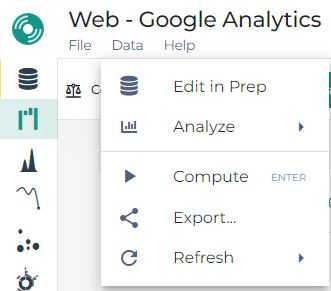
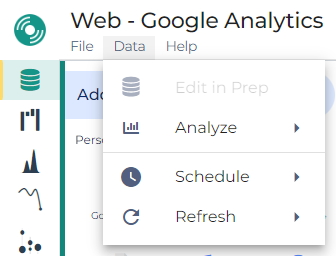
DOCS - Fix : Interface part of the doc revision

diff --git a/core_app/new/interface/header/data.md b/core_app/new/interface/header/data.md
@@ -4,23 +4,19 @@ description: Find here how you can use the "Data" menu of the header of the Data
 layout: page
 ---
 
-> Find here how you can use **the Data** menu of the header of the Solution**
+> Find here how you can use **the Data** menu of the header of the Solution
 
 <center><img src="{{site.url}}/{{site.baseurl}}/core_app/new/interface/header/images/data_menu.jpg"/></center>
 
 **In Prep :** 
 
-- **Schedule** : program in advance the execution of a flow in Prep 
-- **Run and cache** : cache the data and run the flow
-- **Analyze** : choose a tool in which to run a computation of the data flow.
+- **Analyze** : Choose a tool in which to run a computation of the data flow.
+- **Schedule** : Program in advance the execution of a flow in Prep.
+- **Refresh** : Refresh data or refresh everything.
 
 **In solutions :** 
 
-- **Compute** : launch a computation for the current tool.
-- **Clean Cache** : clear the cache in memory.
-- **Edit in Prep** : open Prep to modify the data flow.
-- **Analyze** : choose a tool in which to run a computation.
-
-
-Don't hesitate to contact us if you need any other connexion with your data.
-
+- **Edit in Prep** : Open Prep to modify the data flow.
+- **Analyze** : Choose a tool in which to run a computation.
+- **Compute** : Launch a computation for the current tool.
+- **Refresh** : Refresh computation or refresh data refresh everything

diff --git a/core_app/new/interface/header/file.md b/core_app/new/interface/header/file.md
@@ -4,19 +4,17 @@ description: Find here how you can use the "File" menu of the header of the Data
 layout: page
 ---
 
-> Find here how you can use **the File** menu of the header of the Solution**
+> Find here how you can use **the File** menu of the header of the Solution
 
 <center><img src="{{site.url}}/{{site.baseurl}}/core_app/new/interface/header/images/file_menu.jpg"/></center>
 
 Here is the options available in the "File" header menu:
 
-- **Open** : choose flow to work with. This flow can be one of those you created or a Get Inspired flow.
-- **New workbook** : create an empty workbook.
-- **Save** : update changes of your current workbook.
-- **Save as** : save changes and determine new workbook's properties.
-- **Delete** : delete the workbook. This action is irreversible. 
-- **Refresh page** : reload the website page.
-- **About this workbook** : get the workbook's properties.
+- **Save** : Update changes of your current workbook.
+- **Save as** : Save changes and determine new workbook's properties.
+- **Delete** : Delete the workbook. This action is irreversible. 
+- **Open** : Choose flow to work with. This flow can be one of those you created or a Get Inspired flow.
+- **New workbook** : Create an empty workbook.
 
 
 Don't hesitate to contact us if you need any other connexion with your data.

diff --git a/core_app/new/interface/homepage/get_inspired/get_inspired.md b/core_app/new/interface/homepage/get_inspired/get_inspired.md
@@ -31,7 +31,7 @@ Here are the available examples :
 * [Marketing campaign]({{site.url}}/{{site.baseurl}}/core_app/new/interface/homepage/get_inspired/marketing_campaign.html)
 * [Marketing continuous]({{site.url}}/{{site.baseurl}}/core_app/new/interface/homepage/get_inspired/marketing_continuous.html)
 * [Marketing scope]({{site.url}}/{{site.baseurl}}/core_app/new/interface/homepage/get_inspired/marketing_scope.html)
-* [Acquisition display with budget]({{site.url}}/{{site.baseurl}}/core_app/new/interface/homepage/get_inspired/acquisition_display.html)
+<!-- * [Acquisition display with budget]({{site.url}}/{{site.baseurl}}/core_app/new/interface/homepage/get_inspired/acquisition_display.html) -->
 * [Content Square]({{site.url}}/{{site.baseurl}}/core_app/new/interface/homepage/get_inspired/Content_CS.html)
 * [Retail Performance]({{site.url}}/{{site.baseurl}}/core_app/new/interface/homepage/get_inspired/retail_performance.html)
 * [Finance Control]({{site.url}}/{{site.baseurl}}/core_app/new/interface/homepage/get_inspired/finance_controlling.html)

diff --git a/core_app/new/interface/header/help.md b/core_app/new/interface/header/help.md
@@ -4,16 +4,12 @@ description: Find here how you can use the "Help" menu of the header of the Data
 layout: page
 ---
 
-> Find here how you can use **the Help** menu of the header of the Solution**
+> Find here how you can use **the Help** menu of the header of the Solution
 
 <center><img src="{{site.url}}/{{site.baseurl}}/core_app/new/interface/header/images/help_menu.jpg"/></center>
 
-- **Search** : open a search bar to find keywords in Workbooks, Get Inspired and Documentation.
+- **Search** : Open a search bar to find keywords in Workbooks, Get Inspired and Documentation.
 <center><img src="{{site.url}}/{{site.baseurl}}/core_app/new/interface/header/images/search_bar.png"/></center>
 
-- **Tutorials** : launch the dynamic tutorials to help you use the solutions
-- **Documentation** : access the DataMa documentation
-
-
-Don't hesitate to contact us if you need any other connexion with your data.
-
+- **Tutorials** : Launch the dynamic tutorials to help you use the solutions
+- **Documentation** : Access the DataMa documentation

diff --git a/core_app/new/interface/homepage/homepage_header.md b/core_app/new/interface/homepage/homepage_header.md
@@ -10,25 +10,3 @@ layout: page
 
 
 The header will follow you all along your experience in the platform letting you coming back to the homepage and access your profile account.
-
-<br>
-
-> Discore as well the Header of the solutions
-
-
-<center><img src="{{site.url}}/{{site.baseurl}}/core_app/new/interface/header/images/header.jpg"/></center>
-
-
-For all DataMa Solution tools (Prep, Compare, Assess and Pivot), a contextual menu gives you access to several options for managing your work. In this part, we give a brief overview of these option menus : File, Edit, Data and Help.
-
-<br>
-
-- [1.2.a File]({{site.url}}/{{site.baseurl}}/core_app/new/interface/header/file.html)
-- [1.2.b Data]({{site.url}}/{{site.baseurl}}/core_app/new/interface/header/data.html)
-- [1.2.c Help]({{site.url}}/{{site.baseurl}}/core_app/new/interface/header/help.html)
-
-
-<br>
-
-Don't hesitate to contact us if you need any other connexion with your data.
-

diff --git a/core_app/new/interface/homepage/get_inspired/marketing_campaign.md b/core_app/new/interface/homepage/get_inspired/marketing_campaign.md
@@ -21,5 +21,5 @@ This use case is a basic example of conversion funnel used for an email campaign
 ![Marketing-campaigns]({{site.url}}/{{site.baseurl}}/assets/images/home/use_cases/Marketing-campaigns.jpg)
 
 The 2 other Marketing examples represent specific features available in our DataMa Compare solution (clustering of continuous dimension, and the ability to put some of the data aside – scope in / scope out):
-* [Marketing Campaign – Continuous dimension]({{site.url}}/{{site.baseurl}}/home/use_cases/marketing_continuous.md)
-* [Marketing Campaign – Scope]({{site.url}}/{{site.baseurl}}/home/use_cases/marketing_scope.md)
+* [Marketing Campaign – Continuous dimension]({{site.url}}/{{site.baseurl}}/home/use_cases/marketing_continuous.html)
+* [Marketing Campaign – Scope]({{site.url}}/{{site.baseurl}}/home/use_cases/marketing_scope.html)

diff --git a/core_app/new/interface/homepage/workbooks_management.md b/core_app/new/interface/homepage/workbooks_management.md
@@ -20,7 +20,7 @@ The "Recent" section shows the workbooks you've worked on recently. You can edit
 
 
 
-You can also manage your workbooks in the "Workbooks" menu.
+You can also manage your workbooks in the "Workbooks" page.
 
 <center><img src="{{site.url}}/{{site.baseurl}}/core_app/new/interface/homepage/images/workbooks_home.png"/></center>
 
@@ -28,6 +28,6 @@ You can also manage your workbooks in the "Workbooks" menu.
 
 ## <b>**Folders**</b>
 
-To organize your workbooks, you can create folders in the "Workbooks" menu. Simply give the folder a name and an optional icon.
+To organize your workbooks, you can create folders in the "Workbooks" page. Simply give the folder a name and an optional icon.
 
 <center><img src="{{site.url}}/{{site.baseurl}}/core_app/new/interface/homepage/images/folders_icon.png"/></center>

diff --git a/core_app/new/interface/homepage/get_inspired/finance_controlling.md b/core_app/new/interface/homepage/get_inspired/finance_controlling.md
@@ -22,4 +22,4 @@ We are comparing amount of margin, in that case the margin is the product of :
 
 This would split the different effect of your business performance, the volume of Items sold, the revenue made with these items sold and at the end the margin earned.  This equation could be much more complicated (integrating for example the number of distribution points selling the product, …)
 
-To better understand Metric Relation [read our article]({{site.url}}/{{site.baseurl}}/core-app/header/input/metric-relation).
+To better understand Metric Relation [read our article]({{site.url}}/{{site.baseurl}}/core_app/header/input/metric_relation.html).

diff --git a/core_app/new/interface/homepage/admin/admin.md b/core_app/new/interface/homepage/admin/admin.md
@@ -7,7 +7,7 @@ layout: page
 > See in this chapter details what to find in the **Admin** section of the homepage
 
 
-<center><img src="{{site.url}}/{{site.baseurl}}/core_app/new/interface/homepage/images/admin.jpg"/></center>
+<center><img src="{{site.url}}/{{site.baseurl}}/core_app/new/interface/homepage/admin/images/admin.jpg"/></center>
 
 <br>
 
